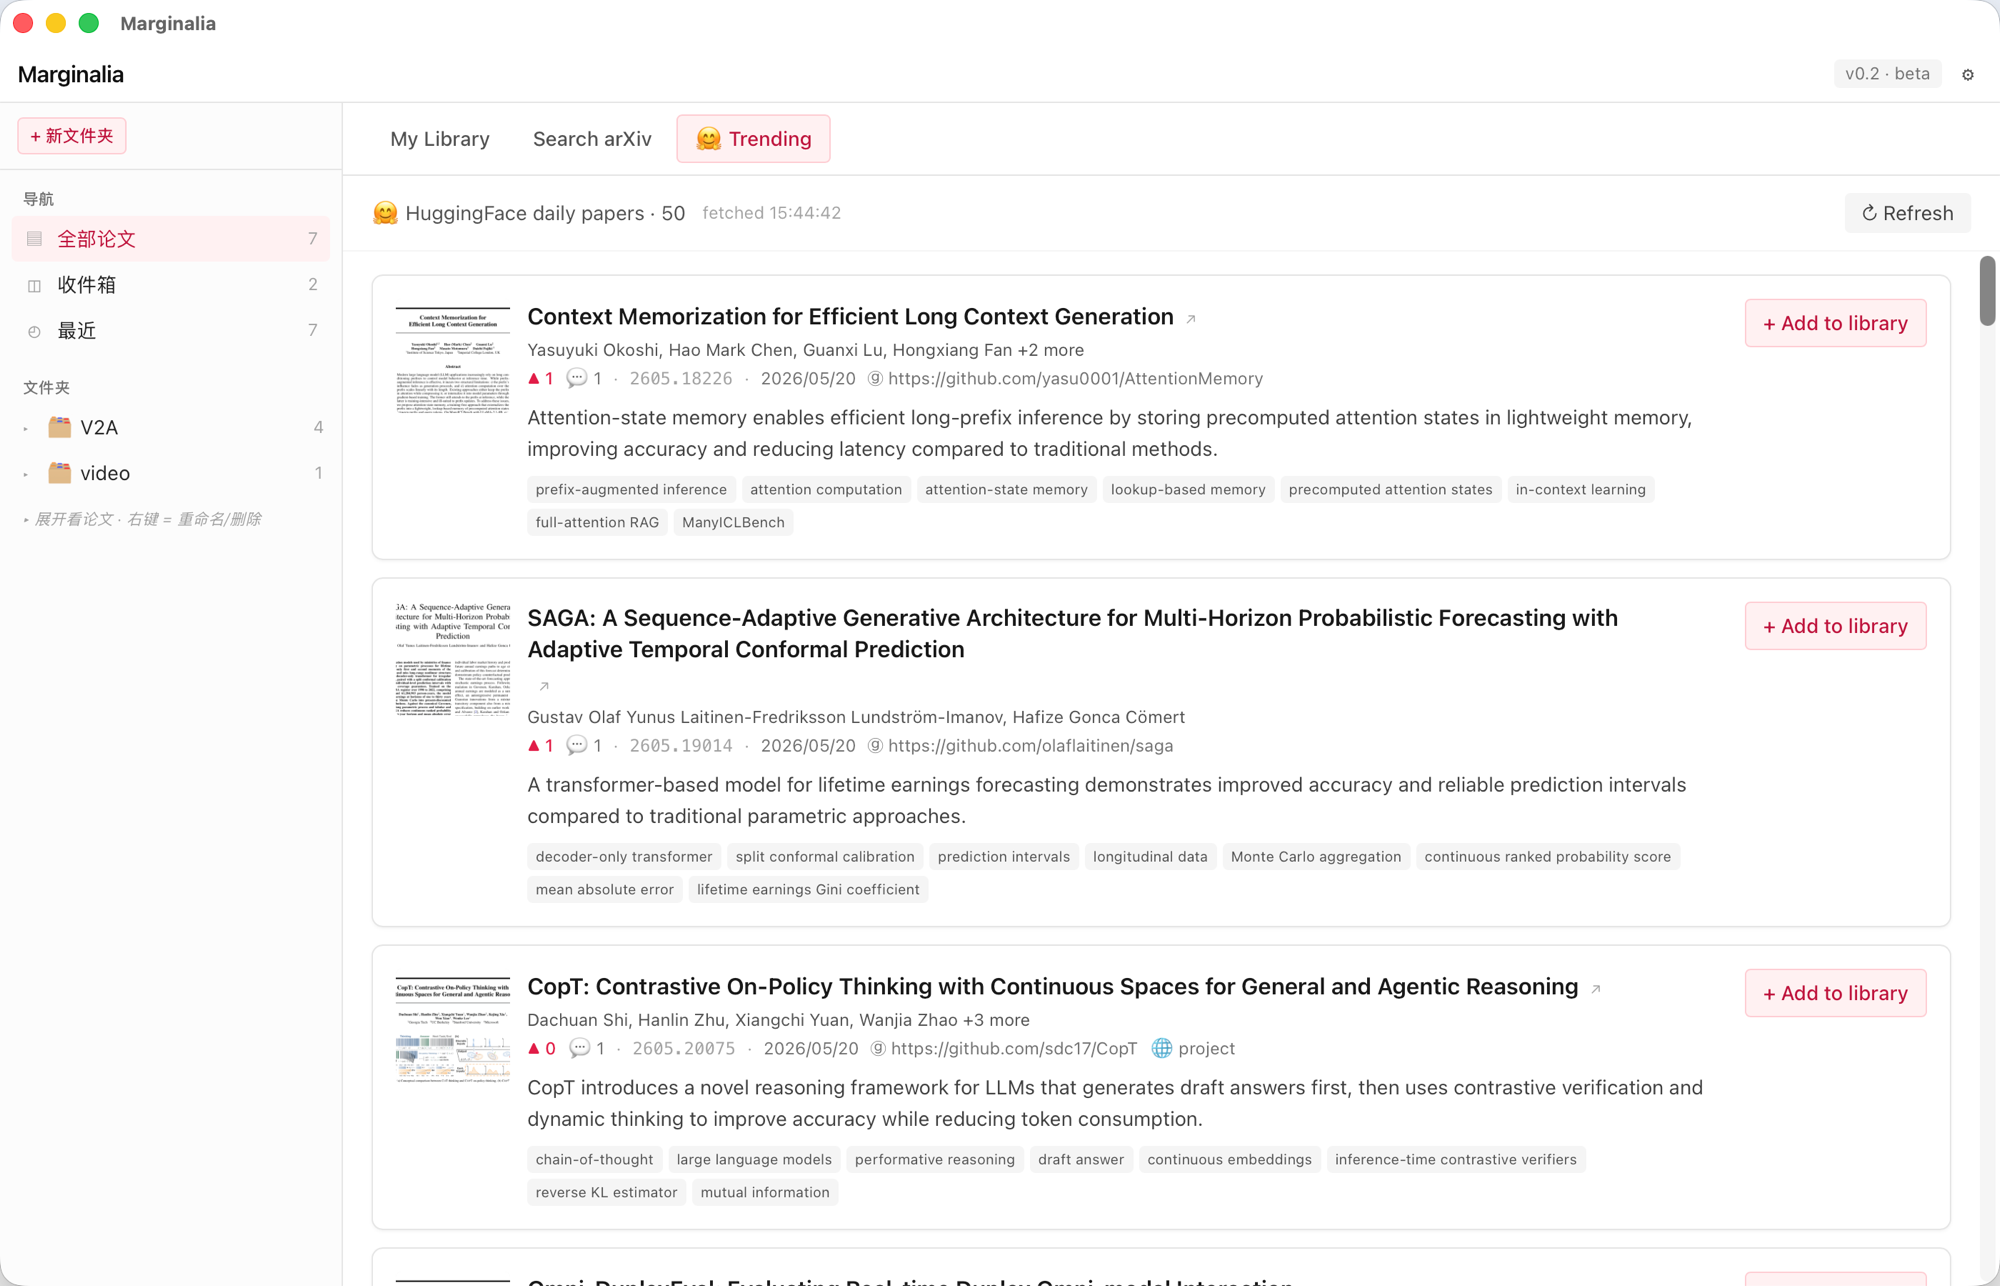
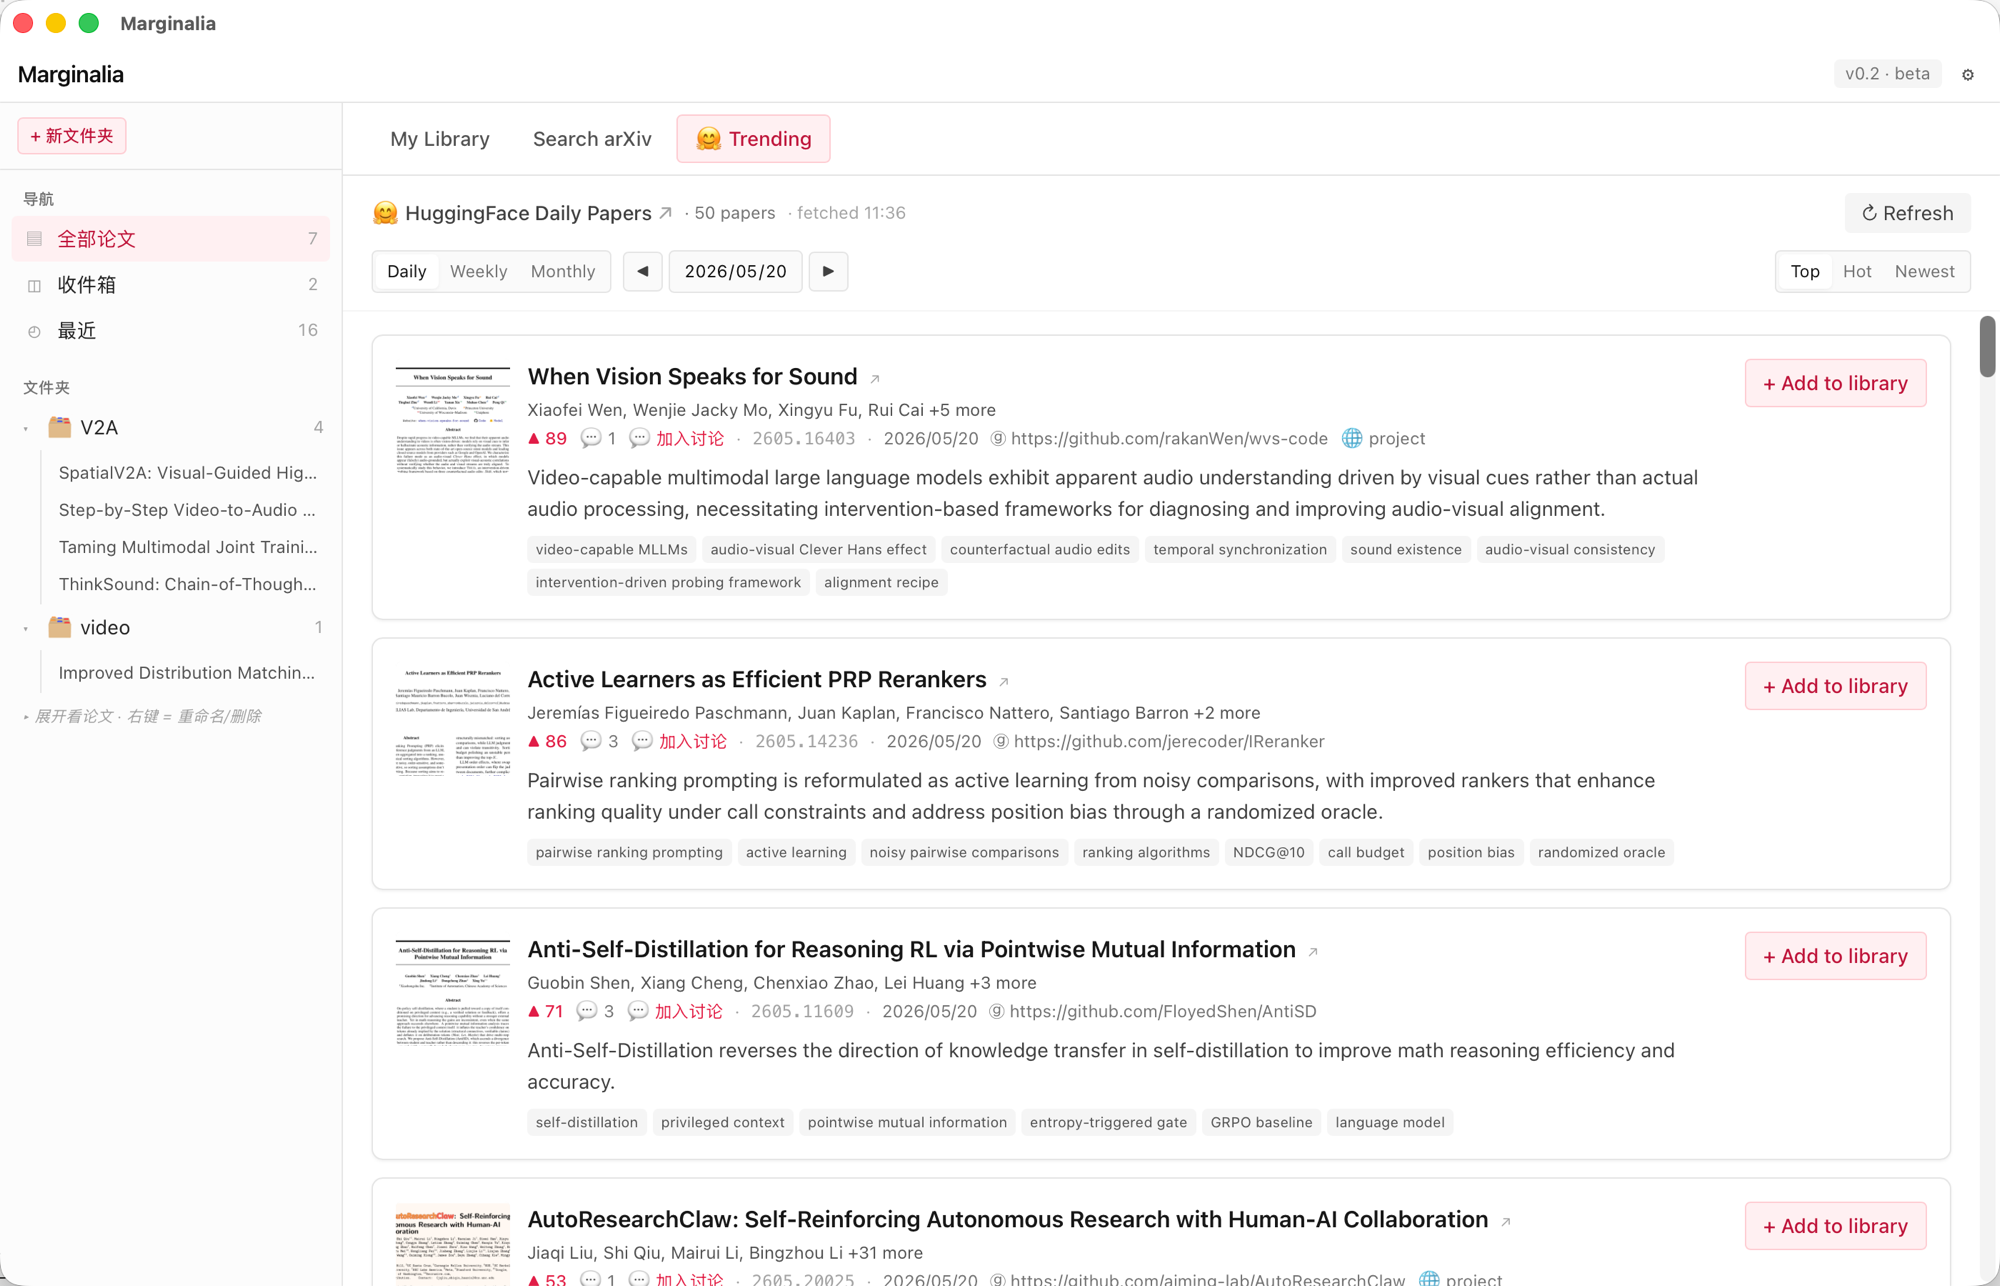
README: v0.3.0 news section + updated screenshots and feature list
- Add "🆕 News — v0.3.0" section at top of both README.md (Chinese,
  default) and README_EN.md, summarizing the major changes since v0.2.0
  (HF Daily redesign, OpenAlex provider, per-day cache, optimistic
  open-reader, state persistence, settings overhaul, new icon, in-app
  update check, PDF sharpness/legacy toggles).
- Replace screenshots/02-trending.png with the v0.3.0 HF Daily panel
  (Daily/Weekly/Monthly tabs, sort modes, date browser, richer cards).
- Rewrite the "Discovery — HuggingFace" bullets to match the new panel.
- Update Features list: OpenAlex as third provider, settings entries
  (HF key, theme picker, sharpness, render mode, proxy, netdiag), in-app
  update check.
- Bump download link and shasum to v0.3.0
  (sha256 609098343cae29470a8c665b498fa522c799c2219e0fde03dc585f437a04b6a4).

diff --git a/README_EN.md b/README_EN.md
@@ -3,7 +3,38 @@
 > Read papers on the left, run Claude Code on the right.
 > Turn reading and reasoning into one fluid loop.
 
-[**⬇ Download v0.2.0**](https://github.com/chenhaoqcdyq/marginalia-releases/releases/latest) ·  macOS · Apple Silicon + Intel · [中文 README](README.md)
+[**⬇ Download v0.3.0**](https://github.com/chenhaoqcdyq/marginalia-releases/releases/latest) ·  macOS · Apple Silicon + Intel · [中文 README](README.md)
+
+---
+
+## 🆕 News — v0.3.0 (2026-05-21)
+
+Major release: HF Daily panel redesign, broader search backends, smart
+caching, instant paper opens.
+[Full release notes →](https://github.com/chenhaoqcdyq/marginalia-releases/releases/tag/v0.3.0)
+
+- 🤗 **HF Daily panel redesign**: Daily / Weekly / Monthly range tabs,
+  Top / Hot / Newest sort, date browser, submitter avatars, discussion
+  deep-links, thumbnail lightbox, expandable abstracts, click-to-filter
+  keyword chips, optional HuggingFace token.
+- ⚡ **Per-day cache shared across ranges + background prefetch**: after
+  one Monthly fetch, switching to Weekly / Daily is free; today's data
+  is silently refreshed every 10 min.
+- 🔎 **OpenAlex** as a third search backend (no API key, 100k req/day/IP).
+  Now the default.
+- ⚡ **Optimistic open-reader**: clicking a Trending paper opens the
+  reader immediately with a "downloading…" placeholder; PDF + DB insert
+  run in the background.
+- 🔄 **State persistence**: Library / Search / Trending tabs each remember
+  scroll, query, filter, range. Sidebar nav rows auto-switch to My Library.
+- ⚙ **Settings panel redesign**: bubble cards, network diagnostics as a
+  2-col card grid with status dots / latency / expandable errors, manual
+  proxy override live-applied.
+- 🖼 **PDF sharpness setting** (default 2× = Retina native, matches macOS
+  Preview); Modern/Legacy worker toggle for older Intel Mac Safari.
+- 🆕 **New app icon**: cream squircle + crimson margin mark.
+- 🔔 **In-app update check**: silent daily check against GitHub Releases
+  with ETag caching and 6h backoff on rate-limit.
 
 ---
 
@@ -25,12 +56,20 @@ The name nods to the scholarly tradition of writing notes **in the margins of a 
 - Live MinerU parse status per row
 - Right-click for archive / rename / delete
 
-### Discovery — HuggingFace Daily Trending
+### Discovery — HuggingFace Daily Papers
 ![Trending](screenshots/02-trending.png)
 
-- Daily-refreshed top 50 papers from HuggingFace
-- AI-extracted keywords, upvote counts, linked GitHub repos
-- One-click `+ Add to library`, PDF auto-downloaded from arXiv
+- **Daily / Weekly / Monthly** range tabs, **Top / Hot / Newest** sort
+- ◀ ▶ date browser for any past day's papers
+- Submitter avatars (click → HF profile), 💬 discussion deep-links,
+  click-to-zoom thumbnail lightbox, click-to-filter keyword chips
+- **Per-day cache shared across ranges**: after a Monthly fetch, switching
+  to Weekly / Daily is free. Background prefetch refreshes today every
+  10 min while the panel is mounted.
+- One-click `+ Add to library` or **click the title to open the reader**
+  instantly (PDF downloads in the background, no blank wait)
+- Optional **HuggingFace token** in Settings to enter HF's polite pool
+  and dodge the Monthly rate-limit risk
 
 ### Reader — PDF + Claude Code side by side
 ![Reader](screenshots/03-reader.png)
@@ -52,15 +91,22 @@ The name nods to the scholarly tradition of writing notes **in the margins of a 
   - arXiv ID / URL
   - Any PDF URL
   - **BibTeX paste** (bulk, background-imports, deduped by arxiv_id, files into any folder)
-  - Semantic Scholar (primary) / arXiv (fallback) search
-  - 🤗 HuggingFace Daily Trending
+  - **OpenAlex (default, no key, 100k req/day/IP)** / Semantic Scholar /
+    arXiv search; per-query result cache so switching tabs is instant
+  - 🤗 HuggingFace Daily Papers (Daily / Weekly / Monthly + multiple sorts)
 - ✅ **PDF viewer**: continuous scroll · pinch-to-zoom (WebKit gestures) · page virtualization (100-page papers don't blow up memory) · **persistent text-selection highlight** (CSS Custom Highlight API — stays visible after you click Claude)
 - ✅ **Per-paper Claude sessions**: `claude -c` to continue · `+ New` for a fresh session · `History ▾` to resume any past conversation with full transcript
 - ✅ **Markdown + KaTeX preview pane**: renders formulas in-place, instead of you reading `$$\sum$$` literally
 - ✅ **MinerU integration** (optional, opt-in): cloud-parses PDFs into structured markdown with LaTeX formulas + extracted figures, runs in background
 - ✅ **Selection → Claude auto-injection**: highlight on PDF → file write → `UserPromptSubmit` hook injects it into the next prompt, no copy-paste
 - ✅ **Library export / import**: one-button .zip backup including PDFs, MinerU output, and Claude jsonl session files
-- ✅ **Settings dialog**: API keys (MinerU + Semantic Scholar), bulk title re-extraction, backup/restore
+- ✅ **Settings dialog**: API keys (MinerU / Semantic Scholar / HuggingFace),
+  Claude pane theme (6 presets), PDF render sharpness, PDF render mode
+  (modern / legacy compat), manual proxy override, network diagnostics
+  (card grid with status dots), backup/restore
+- ✅ **In-app update check**: silent daily check against GitHub Releases,
+  header badge when newer; manual "Check now" in Settings; ETag-cached
+  to avoid GitHub rate limits
 
 ---
 
@@ -121,9 +167,9 @@ Launch the app → click ⚙ at top-right →
 ## Verify download
 
 ```bash
-shasum -a 256 Marginalia_0.2.0_universal.dmg
+shasum -a 256 Marginalia_0.3.0_universal.dmg
 # expected:
-# 774c276b618ab343124193bea0fee8d4a50e60f298d8e700c741df1aca292221
+# 609098343cae29470a8c665b498fa522c799c2219e0fde03dc585f437a04b6a4
 ```
 
 ---

diff --git a/README.md b/README.md
@@ -3,7 +3,33 @@
 > 把论文放左边，把 Claude Code 放右边。
 > 让阅读和推理变成一个流畅的回路。
 
-[**⬇ 下载 v0.2.0**](https://github.com/chenhaoqcdyq/marginalia-releases/releases/latest) ·  macOS · Apple Silicon + Intel · [English README](README_EN.md)
+[**⬇ 下载 v0.3.0**](https://github.com/chenhaoqcdyq/marginalia-releases/releases/latest) ·  macOS · Apple Silicon + Intel · [English README](README_EN.md)
+
+---
+
+## 🆕 News — v0.3.0（2026-05-21）
+
+最新大版本带来 HF Daily 体验重做、搜索源扩展、智能缓存和论文打开零等待。
+[完整 release notes →](https://github.com/chenhaoqcdyq/marginalia-releases/releases/tag/v0.3.0)
+
+- 🤗 **HF Daily 全新面板**：Daily / Weekly / Monthly 范围切换、Top / Hot /
+  Newest 排序、日期 ◀▶ 翻历史、提交人头像、💬 加入讨论、缩略图点击放大、
+  摘要展开、关键词点击过滤。设置里可填可选的 HuggingFace token。
+- ⚡ **按天共享缓存 + 后台预取**：跑完 Monthly 后，切到 Weekly / Daily 0 网络
+  请求。HF 面板挂载时每 10 分钟静默刷新 today。
+- 🔎 **OpenAlex 加入搜索（默认）**：2.5 亿篇论文，无 key，100k 次 / 天 / IP，
+  比 arXiv / Semantic Scholar 都宽松。
+- ⚡ **点击 trending 论文 0 等待**：reader 立即出现 + 占位"下载中"，PDF
+  和数据库写入在后台跑。
+- 🔄 **状态全记住**：Library / Search / Trending 三个标签页各自记滚动位置、
+  上次搜索/筛选状态；侧栏 All / Inbox / 文件夹点击自动切回 My Library。
+- ⚙ **设置面板重设计**：气泡式卡片，网络诊断 2 列卡片网格（绿/红状态点 +
+  延迟徽章 + 可展开报错），手动代理设置即时生效。
+- 🖼 **PDF 渲染清晰度可调**（默认 2× = Retina 原生，匹配 macOS 预览）；
+  Intel Mac 老 Safari 用兼容模式切到 PDF.js legacy worker。
+- 🆕 **新图标**：米黄 squircle + 红色 margin mark。
+- 🔔 **应用内更新检查**：启动自动检测新版本，header 右上跳红色徽章；
+  ETag 缓存避开 GitHub 限流。
 
 ---
 
@@ -27,12 +53,18 @@
 - MinerU 解析状态实时显示
 - 右键论文：归档 / 重命名 / 删除
 
-### 发现 — HuggingFace 每日 Trending
+### 发现 — HuggingFace Daily Papers
 ![Trending](screenshots/02-trending.png)
 
-- 每日刷新 HuggingFace 推荐的 50 篇热门论文
-- 自动展示 AI 关键词、上投票数、关联 GitHub
-- 一键 `+ Add to library`，PDF 自动从 arXiv 下载
+- **Daily / Weekly / Monthly** 范围切换，**Top / Hot / Newest** 排序
+- ◀ ▶ 翻看任意一天的 daily papers
+- 提交人头像（点跳 HF 主页）、💬 加入讨论按钮（深链到 paper 评论页）、
+  缩略图点击放大 lightbox、AI 关键词点击过滤
+- **按天共享缓存**：跑完 Monthly 切到 Weekly / Daily 0 网络请求；后台
+  每 10 分钟静默刷新 today
+- 一键 `+ Add to library` 或 **点 title 直接进 reader**（PDF 后台下载，
+  界面不卡）
+- 设置里可填可选的 **HuggingFace token** 进 polite pool 避开 Monthly 限流
 
 ### 阅读 — PDF + Claude Code 并排
 ![阅读视图](screenshots/03-reader.png)
@@ -54,15 +86,20 @@
   - arXiv ID / URL 一键导入
   - 任意 PDF URL 下载
   - **BibTeX 批量粘贴**（后台导入，自动按 arxiv_id 去重，归类到任意文件夹）
-  - Semantic Scholar 搜索（推荐）/ arXiv 搜索（备选）
-  - 🤗 HuggingFace 每日 Trending
+  - **OpenAlex（默认，无 key，100k 次/天/IP）** / Semantic Scholar / arXiv
+    三选一搜索，结果按 query 缓存切换标签页秒出
+  - 🤗 HuggingFace Daily Papers（Daily / Weekly / Monthly + 多种排序）
 - ✅ **PDF 查看器**：连续滚动 · 双指捏合缩放（WebKit 手势）· 页面虚拟化（开 100 页论文不爆内存）· 文字选区**持久高亮**（点别处也不消失）
 - ✅ **每论文独立 Claude 会话**：`claude -c` 自动续上次对话，`+ 新会话` 开新，`历史 ▾` 恢复任意历史会话并看完整 transcript
 - ✅ **Markdown + KaTeX preview pane**：Claude 回复的公式实时渲染，不再是 `$$\sum$$` 字面字符
 - ✅ **MinerU 集成**（可选）：云端解析 PDF 为结构化 markdown（LaTeX 公式 + 真表格 + 抽取图表），后台跑不阻塞
 - ✅ **选区 → Claude 自动注入**：PDF 上划选 → `current_selection.md` 写文件 → UserPromptSubmit hook 注入到下条 prompt → Claude 自然知道你在问哪段
 - ✅ **导出 / 导入文献库**：一键打包成 zip（含 PDF、MinerU 结果、Claude jsonl），换机器或备份用
-- ✅ **设置面板**：填 MinerU / Semantic Scholar API key、重新提取所有论文标题、备份恢复
+- ✅ **设置面板**：MinerU / Semantic Scholar / HuggingFace API key、Claude 终端
+  主题（6 个预设）、PDF 渲染清晰度、PDF 渲染模式（现代/兼容）、手动代理设置、
+  网络诊断（卡片网格 + 状态点）、备份恢复
+- ✅ **应用内更新检查**：启动自动检测新版本，header 红色徽章 + Settings 里
+  "立即检查"按钮，ETag 缓存避开 GitHub 限流
 
 ---
 
@@ -122,9 +159,9 @@ xattr -dr com.apple.quarantine /Applications/Marginalia.app
 ## 校验下载
 
 ```bash
-shasum -a 256 Marginalia_0.2.0_universal.dmg
+shasum -a 256 Marginalia_0.3.0_universal.dmg
 # 期望值：
-# 774c276b618ab343124193bea0fee8d4a50e60f298d8e700c741df1aca292221
+# 609098343cae29470a8c665b498fa522c799c2219e0fde03dc585f437a04b6a4
 ```
 
 ---